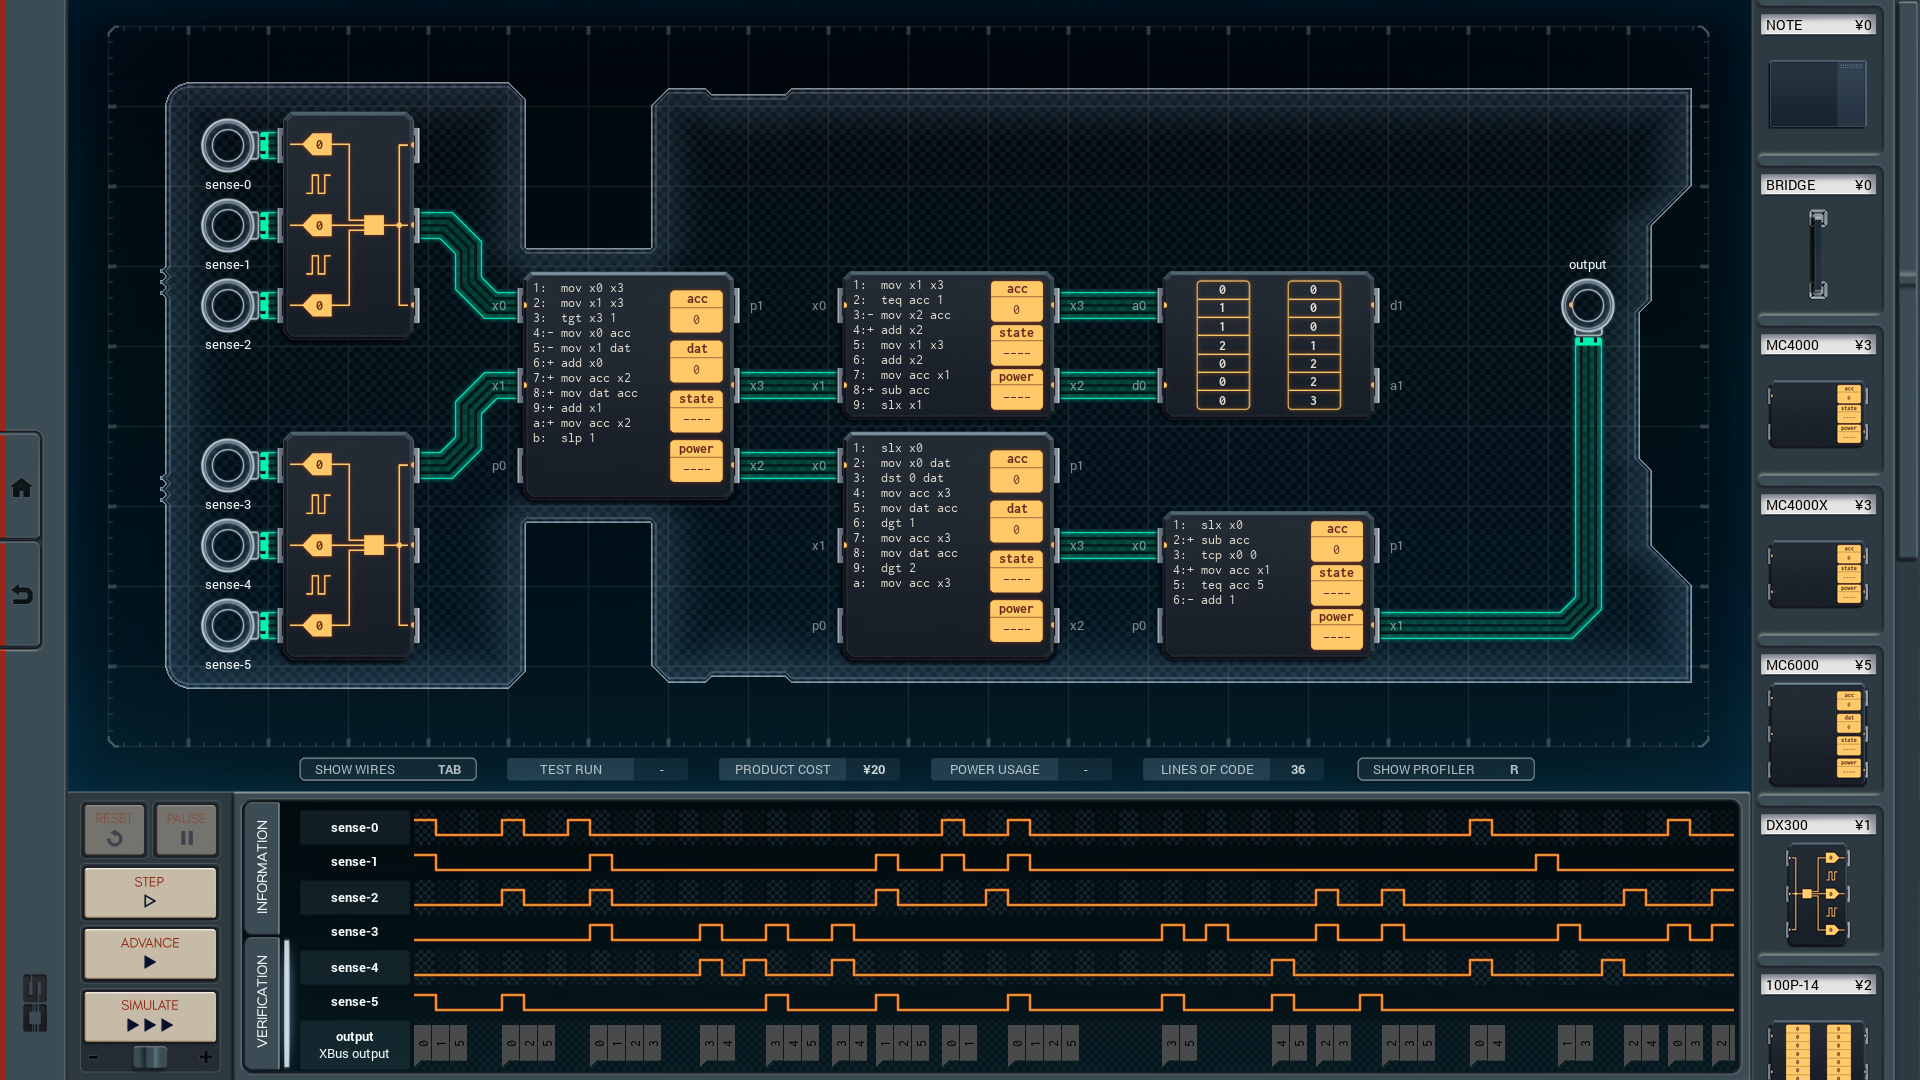
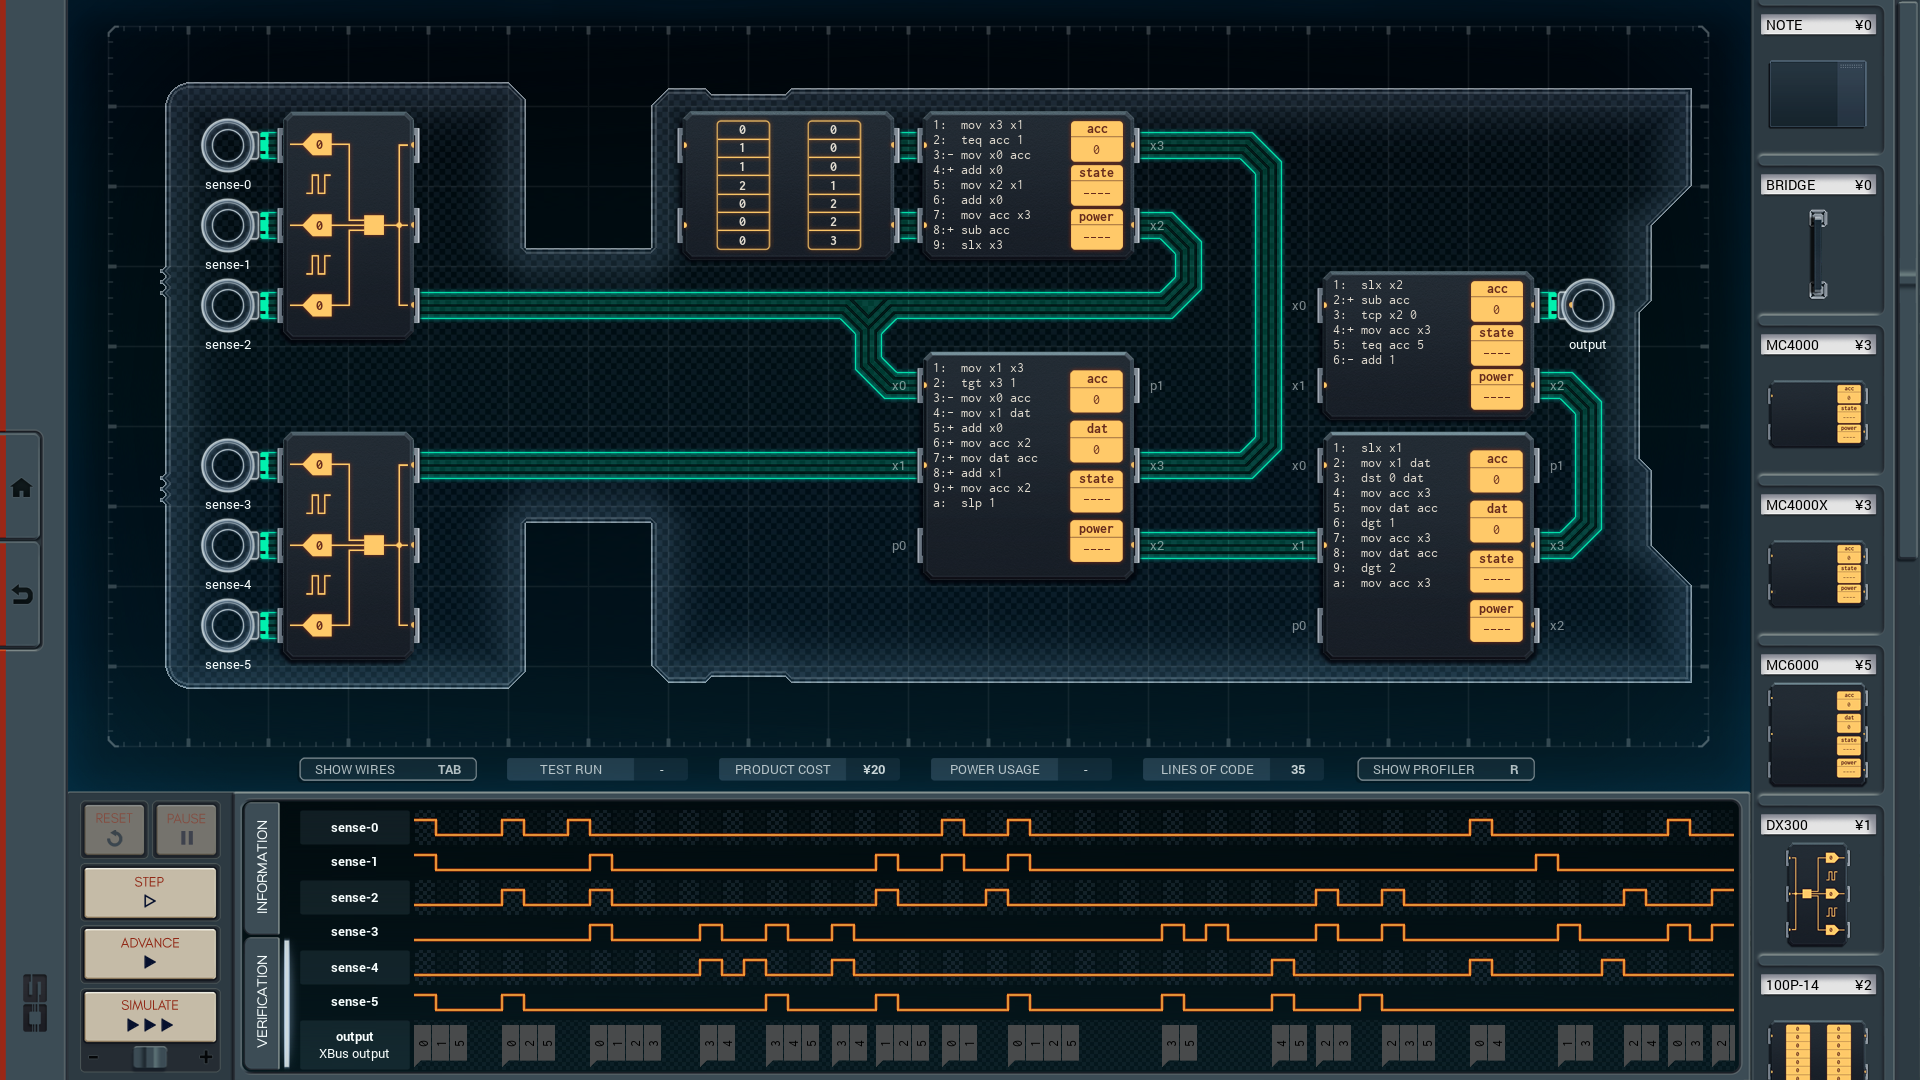
2022/11/29 Optimized the Brain Computer Interface solutions
=== MIN COST & LINES SOLUTION ===
[BEF] 20C / 1823P / 36L
[AFT] 20C / 1763P / 35L

=== MIN POWER SOLUTION ===
[BEF] 22C / 1249P / 46L
[AFT] 22C / 1209P / 45L

Changed region(s): [[0.2188, 0.0917, 0.8438, 0.6417]]

diff --git a/039-brain-computer-interface/README.md b/039-brain-computer-interface/README.md
@@ -1,9 +1,9 @@
-20/1823/36 (MIN COST & LINES) SOLUTION
+20/1763/35 (MIN COST & LINES) SOLUTION
 --------------------------------------
 
 ![screenshot0](https://github.com/shiawasenahikari/Shenzhen-IO-Solutions/blob/master/039-brain-computer-interface/screenshot0.png)
 
-22/1249/46 (MIN POWER) SOLUTION
+22/1209/45 (MIN POWER) SOLUTION
 -------------------------------
 
 ![screenshot1](https://github.com/shiawasenahikari/Shenzhen-IO-Solutions/blob/master/039-brain-computer-interface/screenshot1.png)
